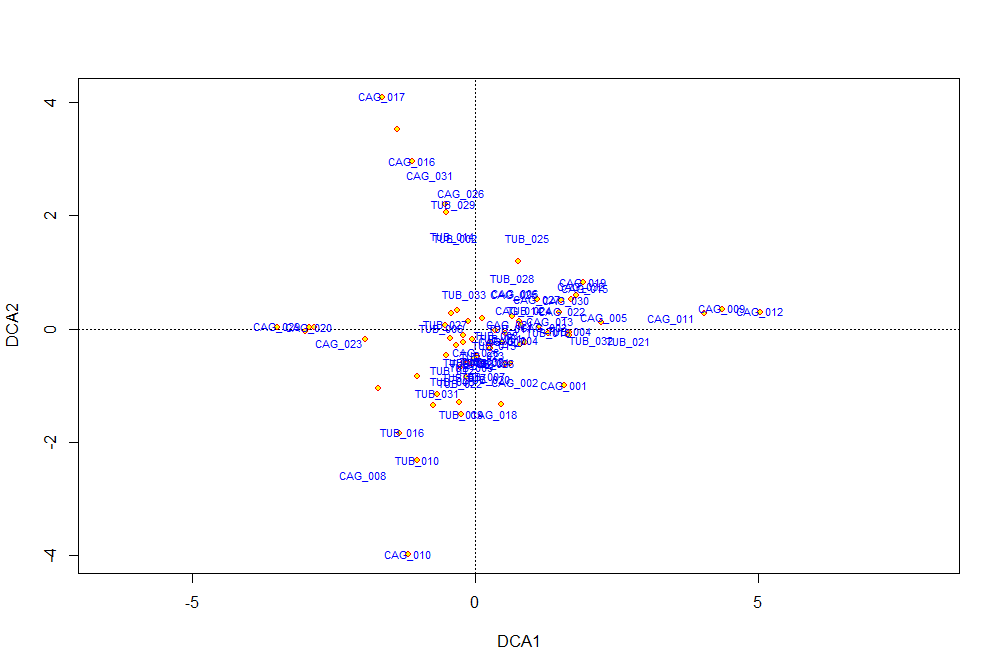
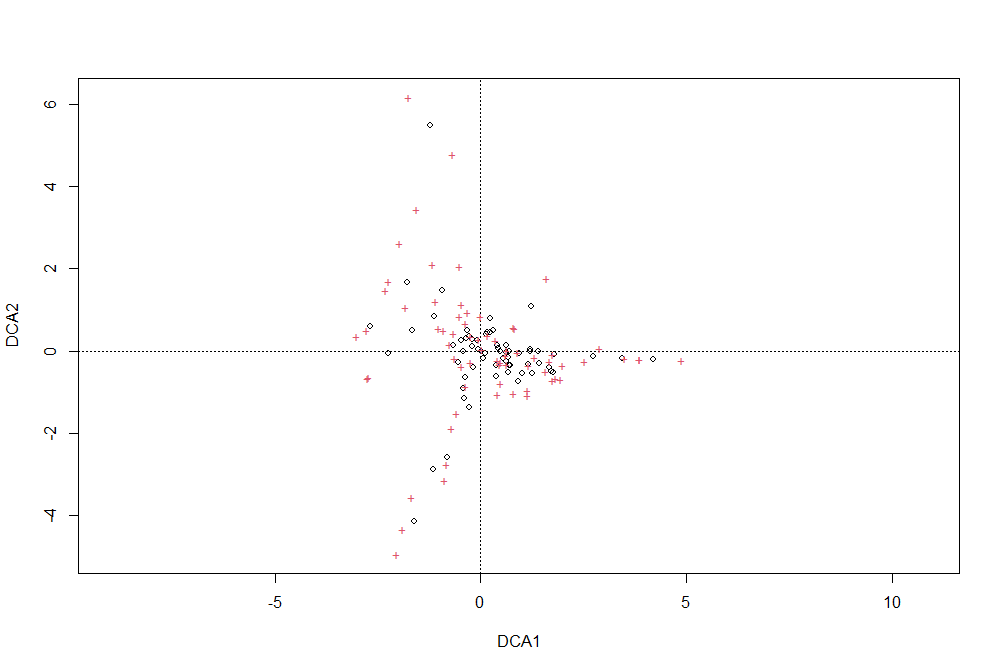
update

diff --git a/statistics/biodiversity/README.md b/statistics/biodiversity/README.md
@@ -50,7 +50,7 @@
 
 2. Wrangle data into format compatible with vegan.
 
-	Each column is a site and each row is a unique taxon
+	For the species count data, each column is a taxon and each row is a unique site or observation
 
 	We will use the count data from the `salvador` repo which is already here in this directory.  
 	
@@ -72,11 +72,47 @@
 	  summarize(sum_max_n = sum(max_n)) %>%
 	  ungroup() %>%
 	  # convert tibble from long to wide format
-	  pivot_wider(names_from = op_code,
+	  pivot_wider(names_from = taxon,
 				  values_from = sum_max_n,
 				  values_fill = 0) %>%
-	  # remove the taxon column for vegan
-	  dplyr::select(-taxon)
+	  # sort by op_code
+	  arrange(op_code) %>%
+	  # remove the op_code column for vegan
+	  dplyr::select(-op_code)
+	```
+
+	For the metadata, each row must be in same order as in data tibble above:
+	
+	```r
+	metadata_vegan <-
+	  data_all %>%
+	  # make unique taxa
+	  mutate(taxon = str_c(family,
+						   genus,
+						   species,
+						   sep = "_")) %>%
+	  # sum all max_n counts for a taxon and op_code
+	  group_by(taxon,
+			   op_code,
+			   site,
+			   survey_area,
+			   habitat,
+			   lat_n,
+			   long_e,
+			   depth_m,
+			   bait_type) %>%
+	  summarize(sum_max_n = sum(max_n)) %>%
+	  ungroup() %>%
+	  # convert tibble from long to wide format
+	  pivot_wider(names_from = taxon,
+				  values_from = sum_max_n,
+				  values_fill = 0) %>%
+	  # sort by op_code
+	  arrange(op_code) %>%
+	  # remove the op_code column for vegan
+	  dplyr::select(op_code:bait_type) %>%
+	  mutate(site_code = str_remove(op_code,
+									"_.*$"))
 	```
 
 ## Ordination
@@ -92,28 +128,53 @@ Note that `vegan` is not `tidyverse` compatible, meaning that its functions are 
 	ord <- decorana(data_vegan)
 	ord
 	summary(ord)
+	#boring plot
 	plot(ord)
-	
-	#nicer plot
-	plot(ord, type = "n")
-	points(ord, display = "sites", cex = 0.8, pch=21, col="red", bg="yellow")
-	text(ord, display = "spec", cex=0.7, col="blue")
 	```
 	
-![](Rplot.png)
+!{}(Rplot.png)
+The symbols represent the sites (black circles) and the taxa (red +)
 	
+	```r
+	#fancier plot
+	plot(ord, type = "n")
+	points(ord, display = "sites", cex = 0.8, pch=21, col="black", bg="yellow")
+	text(ord, display = "spec", cex=0.7, col="red")
+	```
+	
+![](Rplot01.png)
+The sites are black circles and the taxa are spelled out in red.
+	
+	```r
+	#fanciest plot
+	plot(ord, disp="sites", type="n")
+	ordihull(ord, habitat, col=1:2, lwd=3)
+	ordiellipse(ord, habitat, col=1:2, kind = "ehull", lwd=3)
+	ordiellipse(ord, habitat, col=1:2, draw="polygon")
+	points(ord, disp="sites", pch=21, col=1:2, bg="yellow", cex=1.3)
+	ordispider(ord, habitat, col=1:2, label = TRUE)
+	```
+	
+![](Rplot02.png)
+Color coded by habitat, where deep reef is black and shallow reef is red.
+
+---
+
 	```r
 	# Non-metric multidimensional scaling
 	ord <- metaMDS(data_vegan)
 	ord
 	summary(ord)
-	plot(ord)
-	plot(ord, type = "n")
-	points(ord, display = "sites", cex = 0.8, pch=21, col="red", bg="yellow")
-	text(ord, display = "spec", cex=0.7, col="blue")
+	#fanciest plot
+	plot(ord, disp="sites", type="n")
+	ordihull(ord, habitat, col=1:2, lwd=3)
+	ordiellipse(ord, habitat, col=1:2, kind = "ehull", lwd=3)
+	ordiellipse(ord, habitat, col=1:2, draw="polygon")
+	points(ord, disp="sites", pch=21, col=1:2, bg="yellow", cex=1.3)
+	ordispider(ord, habitat, col=1:2, label = TRUE)
 	```
 	
-![](Rplot01.png)
+![](Rplot03.png)
 
 
 
